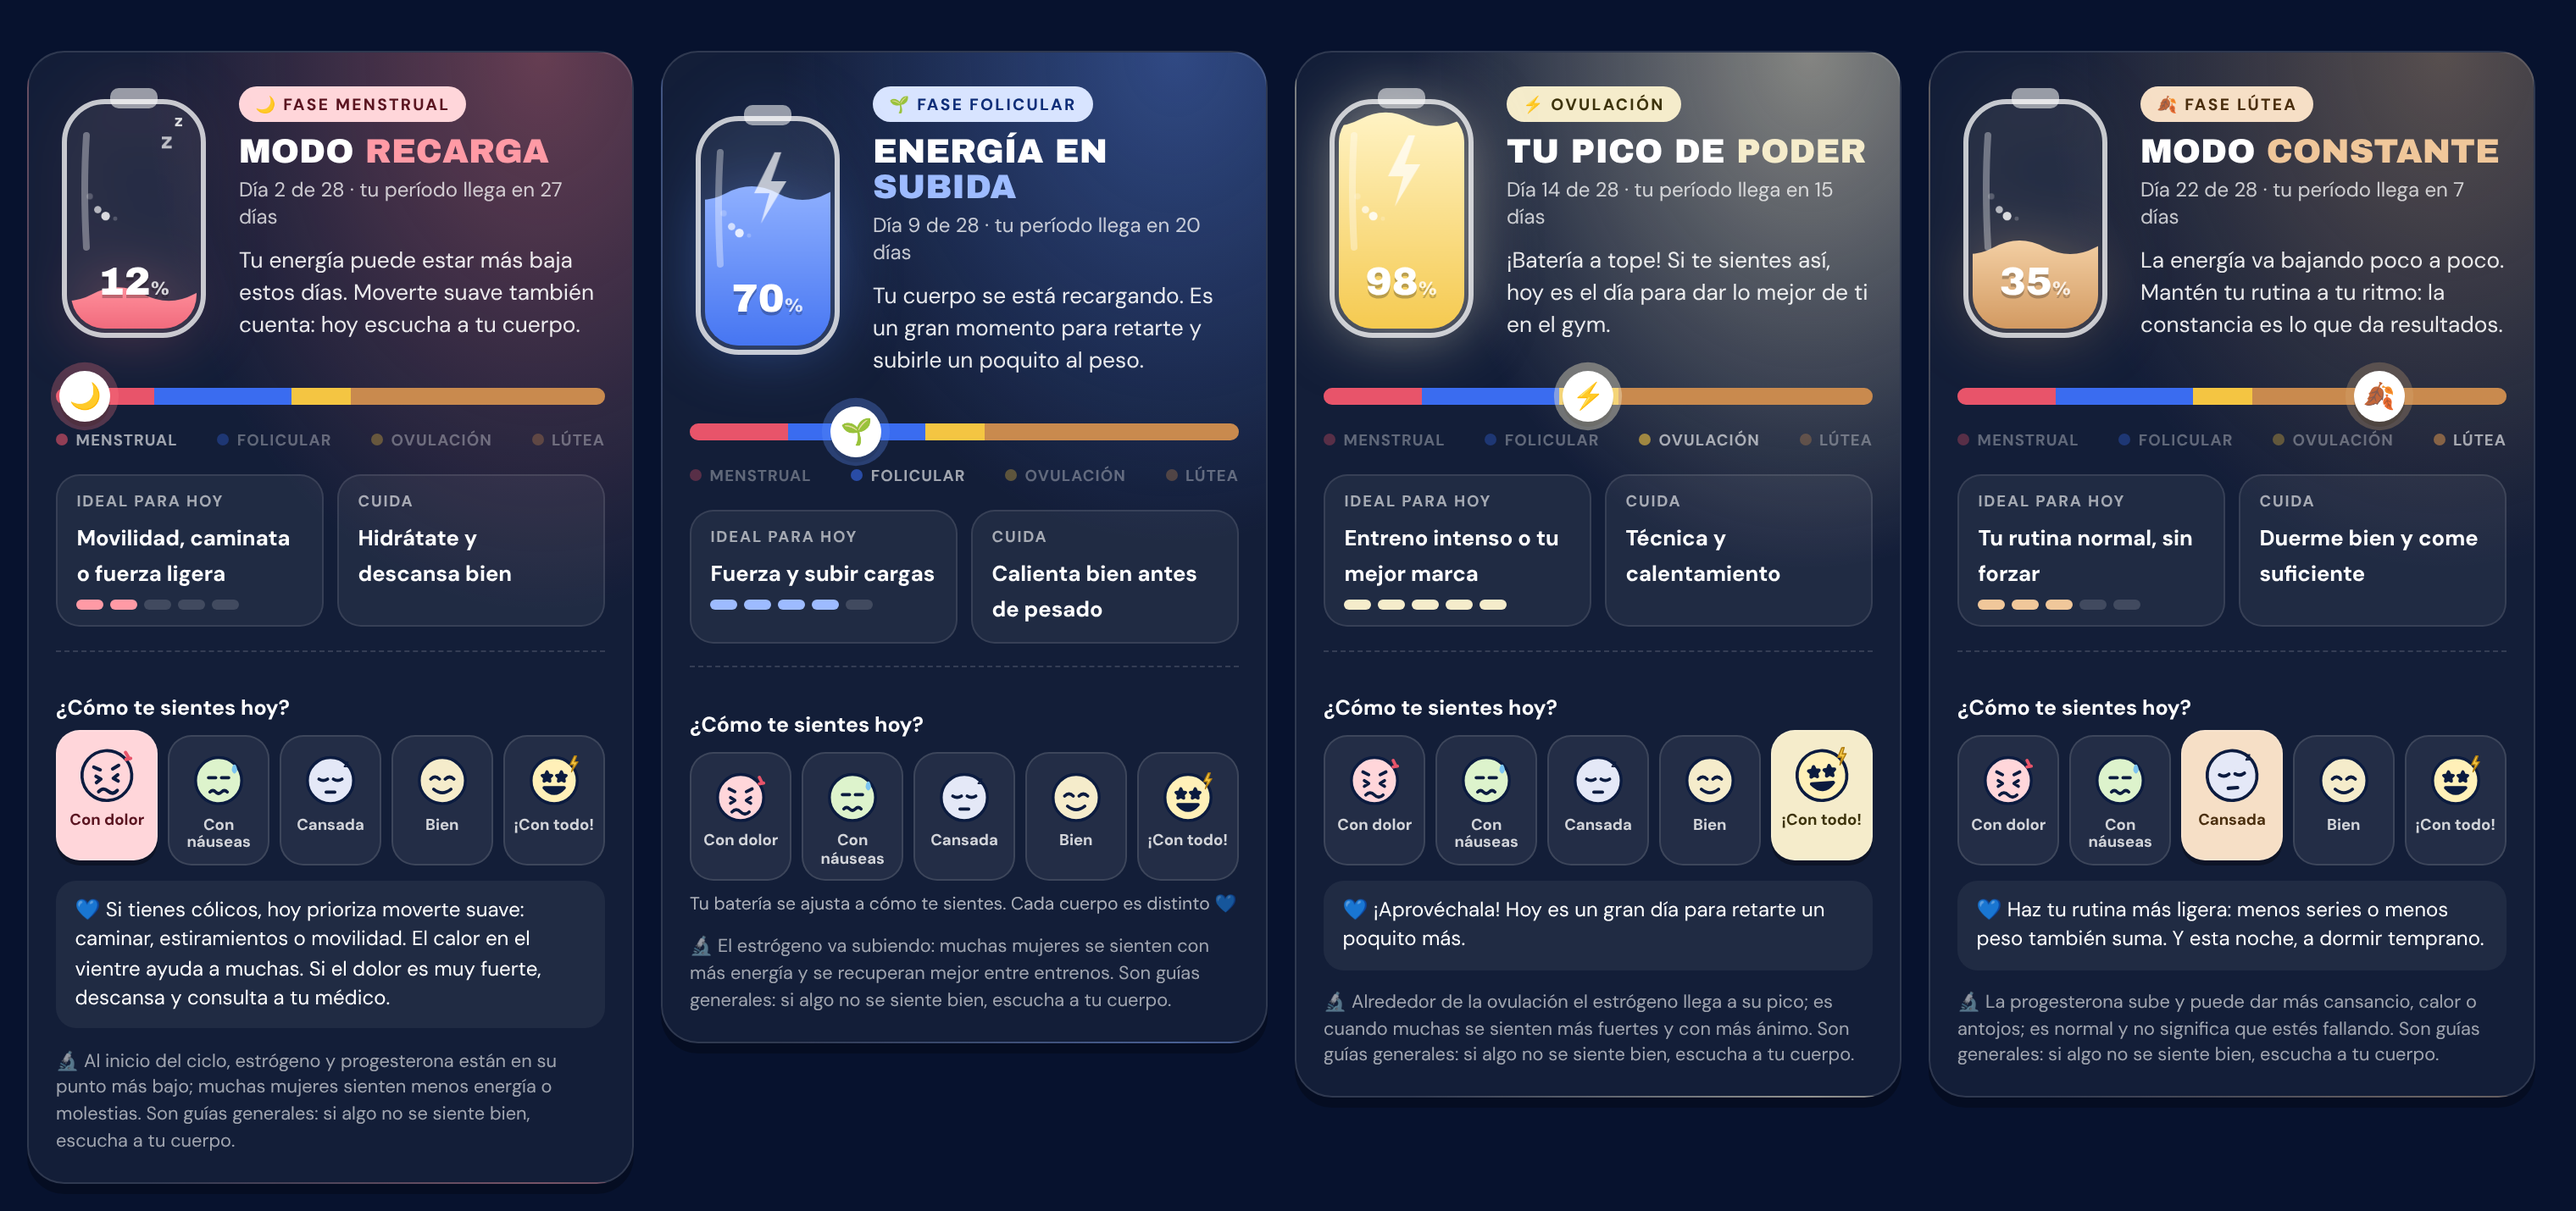
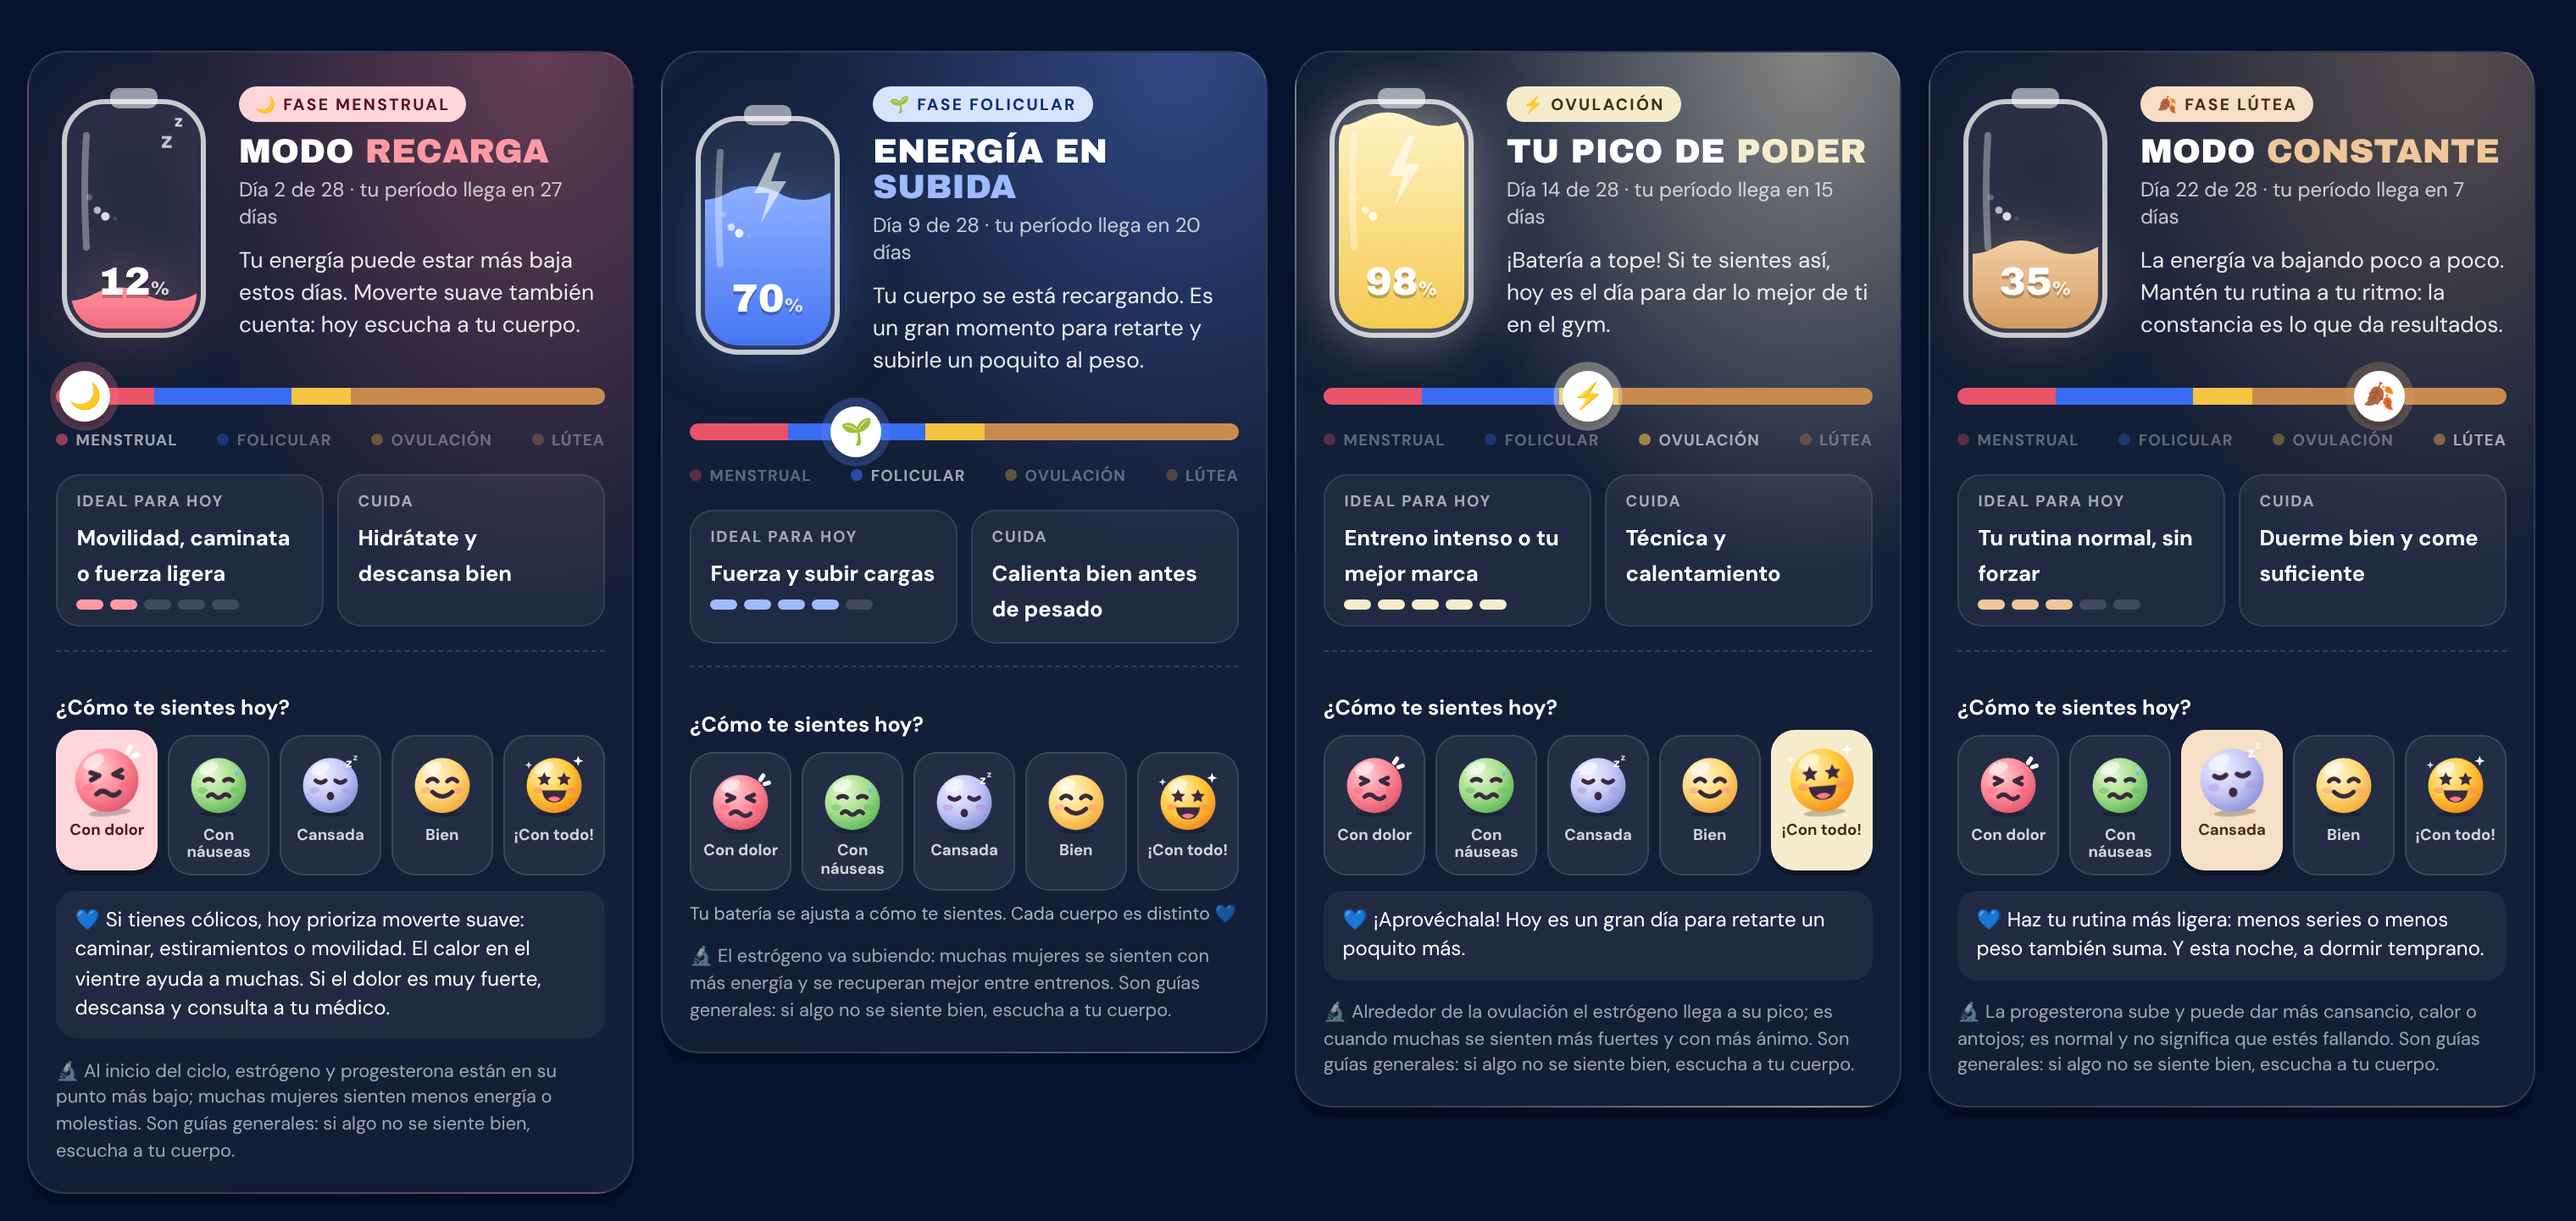
Prototipo Mi ciclo: caritas modernas con volumen, brillo y cachetes (sin borde)
Claude-Session: https://claude.ai/code/session_01SXsANn7JHtpP7WLKUe9EEv

diff --git a/dev/ciclo-prototipo/ciclo.js b/dev/ciclo-prototipo/ciclo.js
@@ -25,25 +25,34 @@ var CY_FASES = {
 };
 // Cómo se siente hoy: caritas dibujadas (SVG propio) y un consejo para cada una.
 var CY_SENTIR = [
-  { id:'dolor', label:'Con dolor', val:1, fill:'#FFD6DA',
-    face:'<path d="M12 15l4 2M28 15l-4 2" /><path d="M13 21l3 2-3 2M27 21l-3 2 3 2"/><path d="M14 31q3-3 6 0t6 0"/><path d="M33 7l1.5 3M36 11l-3 .5" stroke="#E8546A"/>',
+  { id:'dolor', label:'Con dolor', val:1, c:['#FFD0D5','#FF8A98','#E0566B'], cheek:'#FF5F7A',
+    face:'<path d="M14.5 19.5l5 2.2-5 2.4" class="k"/><path d="M33.5 19.5l-5 2.2 5 2.4" class="k"/><path d="M17 33c2.4-2.2 4.6-2.2 7 0s4.6 2.2 7 0" class="k"/><path d="M38 9l2-3M41 12l3-1" fill="none" stroke="#FFF" stroke-width="3" stroke-linecap="round"/>',
     tip:'Si tienes cólicos, hoy prioriza moverte suave: caminar, estiramientos o movilidad. El calor en el vientre ayuda a muchas. Si el dolor es muy fuerte, descansa y consulta a tu médico.' },
-  { id:'nauseas', label:'Con náuseas', val:1, fill:'#DDF3CC',
-    face:'<path d="M13 19h5M22 19h5"/><path d="M14 29q2-2 4 0t4 0t4 0"/><path d="M31 11q1.5 2.5 0 4q-1.5-1.5 0-4z" fill="#7CC4F0" stroke="#7CC4F0"/>',
+  { id:'nauseas', label:'Con náuseas', val:1, c:['#E6F8D6','#A6E08C','#5FB55A'], cheek:'#5FB55A',
+    face:'<path d="M14 21.5q3 -2 6 0M28 21.5q3 -2 6 0" class="k"/><path d="M16.5 32.5q2.5 -2.5 5 0t5 0t5 0" class="k"/><path d="M36.5 12q2.6 4 0 6.4q-2.6 -2.4 0 -6.4z" fill="url(#cyDrop)"/>',
     tip:'Hoy toma agua a sorbos, come algo ligero y, si te animas, haz algo suave. No pasa nada si hoy solo descansas.' },
-  { id:'cansada', label:'Cansada', val:2, fill:'#E4E8F7',
-    face:'<path d="M12 20q3 2 6 0M22 20q3 2 6 0"/><path d="M17 29h6"/><text x="29" y="12" font-size="8" font-weight="800" fill="#0B1B3F" stroke="none">z</text>',
+  { id:'cansada', label:'Cansada', val:2, c:['#EEF0FF','#C3C8F5','#8B92D9'], cheek:'#B98BE0',
+    face:'<path d="M13.5 21.5q3.5 3 7 0M27.5 21.5q3.5 3 7 0" class="k"/><ellipse cx="24" cy="32.5" rx="2.6" ry="3" fill="#3B2A3F"/><text x="35" y="12" font-size="9" font-weight="800" fill="#FFF" font-family="DM Sans,sans-serif">z</text><text x="40" y="7" font-size="6.5" font-weight="800" fill="#FFF" opacity=".8" font-family="DM Sans,sans-serif">z</text>',
     tip:'Haz tu rutina más ligera: menos series o menos peso también suma. Y esta noche, a dormir temprano.' },
-  { id:'bien', label:'Bien', val:4, fill:'#F5ECCB',
-    face:'<path d="M12 20q3-3 6 0M22 20q3-3 6 0"/><path d="M14 27q6 5 12 0"/>',
+  { id:'bien', label:'Bien', val:4, c:['#FFF6D8','#FFD978','#F2A93B'], cheek:'#FF8E7A',
+    face:'<path d="M13.5 22q3.5 -3.6 7 0M27.5 22q3.5 -3.6 7 0" class="k"/><path d="M17 29.5q7 6.5 14 0" class="k"/>',
     tip:'¡Qué bueno! Haz tu rutina normal y disfrútala.' },
-  { id:'contodo', label:'¡Con todo!', val:5, fill:'#FFF0B8',
-    face:'<path d="M15 15l1 2.2 2.3.3-1.7 1.6.4 2.3-2-1.1-2 1.1.4-2.3-1.7-1.6 2.3-.3z" fill="#0B1B3F"/><path d="M25 15l1 2.2 2.3.3-1.7 1.6.4 2.3-2-1.1-2 1.1.4-2.3-1.7-1.6 2.3-.3z" fill="#0B1B3F"/><path d="M13 26q7 8 14 0z" fill="#0B1B3F"/><path d="M34 4l-3 6h2.5l-1.5 5 4.5-7H34l1.5-4z" fill="#F4C542" stroke="#B07D10" stroke-width=".8"/>',
+  { id:'contodo', label:'¡Con todo!', val:5, c:['#FFF3C2','#FFC93C','#F08A1C'], cheek:'#FF7A6B',
+    face:'<path d="M17 15.6l1.5 3.2 3.4.4-2.5 2.3.7 3.4-3.1-1.7-3.1 1.7.7-3.4-2.5-2.3 3.4-.4z" fill="#3B2A3F"/><path d="M31 15.6l1.5 3.2 3.4.4-2.5 2.3.7 3.4-3.1-1.7-3.1 1.7.7-3.4-2.5-2.3 3.4-.4z" fill="#3B2A3F"/><path d="M15.5 28.5h17q-1 8.5-8.5 8.5t-8.5-8.5z" fill="#3B2A3F"/><path d="M19.5 34.2q4.5-3 9 0q-2 2.3-4.5 2.3t-4.5-2.3z" fill="#FF7A8A"/><path d="M41 4l1 2.6 2.6 1-2.6 1-1 2.6-1-2.6-2.6-1 2.6-1z" fill="#FFF"/><path d="M6 8l.7 1.8 1.8.7-1.8.7-.7 1.8-.7-1.8-1.8-.7 1.8-.7z" fill="#FFF" opacity=".85"/>',
     tip:'¡Aprovéchala! Hoy es un gran día para retarte un poquito más.' }
 ];
+var CY_FACE_N = 0;
 function cicloCaraSvg(s) {
-  return '<svg viewBox="0 0 40 40" aria-hidden="true"><circle cx="20" cy="21" r="16" fill="' + s.fill + '" stroke="#0B1B3F" stroke-width="2"/>'
-    + '<g fill="none" stroke="#0B1B3F" stroke-width="2.2" stroke-linecap="round" stroke-linejoin="round">' + s.face + '</g></svg>';
+  var n = ++CY_FACE_N, g = 'cyf' + n;
+  return '<svg viewBox="0 0 48 48" aria-hidden="true"><defs>'
+    + '<radialGradient id="' + g + '" cx="36%" cy="30%" r="75%"><stop offset="0" stop-color="' + s.c[0] + '"/><stop offset=".55" stop-color="' + s.c[1] + '"/><stop offset="1" stop-color="' + s.c[2] + '"/></radialGradient>'
+    + '<linearGradient id="cyDrop" x1="0" y1="0" x2="0" y2="1"><stop offset="0" stop-color="#BFE8FF"/><stop offset="1" stop-color="#4FA8E8"/></linearGradient>'
+    + '<style>.k{fill:none;stroke:#3B2A3F;stroke-width:3;stroke-linecap:round;stroke-linejoin:round}</style></defs>'
+    + '<ellipse cx="24" cy="45" rx="13" ry="2.2" fill="#000" opacity=".22"/>'
+    + '<circle cx="24" cy="25" r="19.5" fill="url(#' + g + ')"/>'
+    + '<ellipse cx="17" cy="13" rx="7" ry="4" fill="#fff" opacity=".55" transform="rotate(-25 17 13)"/>'
+    + '<ellipse cx="12.5" cy="28.5" rx="3.6" ry="2.3" fill="' + s.cheek + '" opacity=".45"/><ellipse cx="35.5" cy="28.5" rx="3.6" ry="2.3" fill="' + s.cheek + '" opacity=".45"/>'
+    + s.face + '</svg>';
 }
 function cicloSentirInfo(id) { for (var i = 0; i < CY_SENTIR.length; i++) if (CY_SENTIR[i].id === id) return CY_SENTIR[i]; return null; }
 function cicloFase(dia, largo) {

diff --git a/dev/ciclo-prototipo/ciclo.css b/dev/ciclo-prototipo/ciclo.css
@@ -40,12 +40,13 @@
 .cy-feel-row{display:flex;gap:.4rem}
 .cy-feel-row{gap:.35rem}
 .cy-feel button{flex:1;min-width:0;display:flex;flex-direction:column;align-items:center;gap:.3rem;background:rgba(255,255,255,.07);border:1px solid rgba(255,255,255,.12);border-radius:14px;padding:.5rem .1rem .45rem;cursor:pointer;transition:transform .15s,background .15s;color:#fff;font-family:inherit}
-.cy-feel button svg{width:34px;height:34px;display:block;transition:transform .2s}
+.cy-feel button svg{width:40px;height:40px;display:block;transition:transform .25s cubic-bezier(.2,1.4,.4,1);overflow:visible}
 .cy-feel button span{font-size:.58rem;font-weight:700;line-height:1.1;text-align:center;opacity:.8}
 .cy-feel button:active svg{transform:scale(.9)}
 .cy-feel button.sel{background:var(--cy-chip);color:var(--cy-ink);transform:translateY(-3px);box-shadow:0 3px 0 rgba(0,0,0,.3)}
 .cy-feel button.sel span{opacity:1}
-.cy-feel button.sel svg{transform:scale(1.08) rotate(-4deg)}
+.cy-feel button.sel svg{transform:scale(1.15) rotate(-6deg);animation:cyFaceBop 1.8s ease-in-out infinite}
+@keyframes cyFaceBop{0%,100%{transform:scale(1.15) rotate(-6deg)}50%{transform:scale(1.15) rotate(4deg) translateY(-2px)}}
 .cy-feel-tip{margin-top:.6rem;font-size:.75rem;line-height:1.45;background:rgba(255,255,255,.06);border-radius:12px;padding:.55rem .7rem}
 .cy-feel small{display:block;font-size:.66rem;opacity:.65;margin-top:.45rem}
 .cy-sci{margin-top:.7rem;font-size:.68rem;line-height:1.45;opacity:.6}
